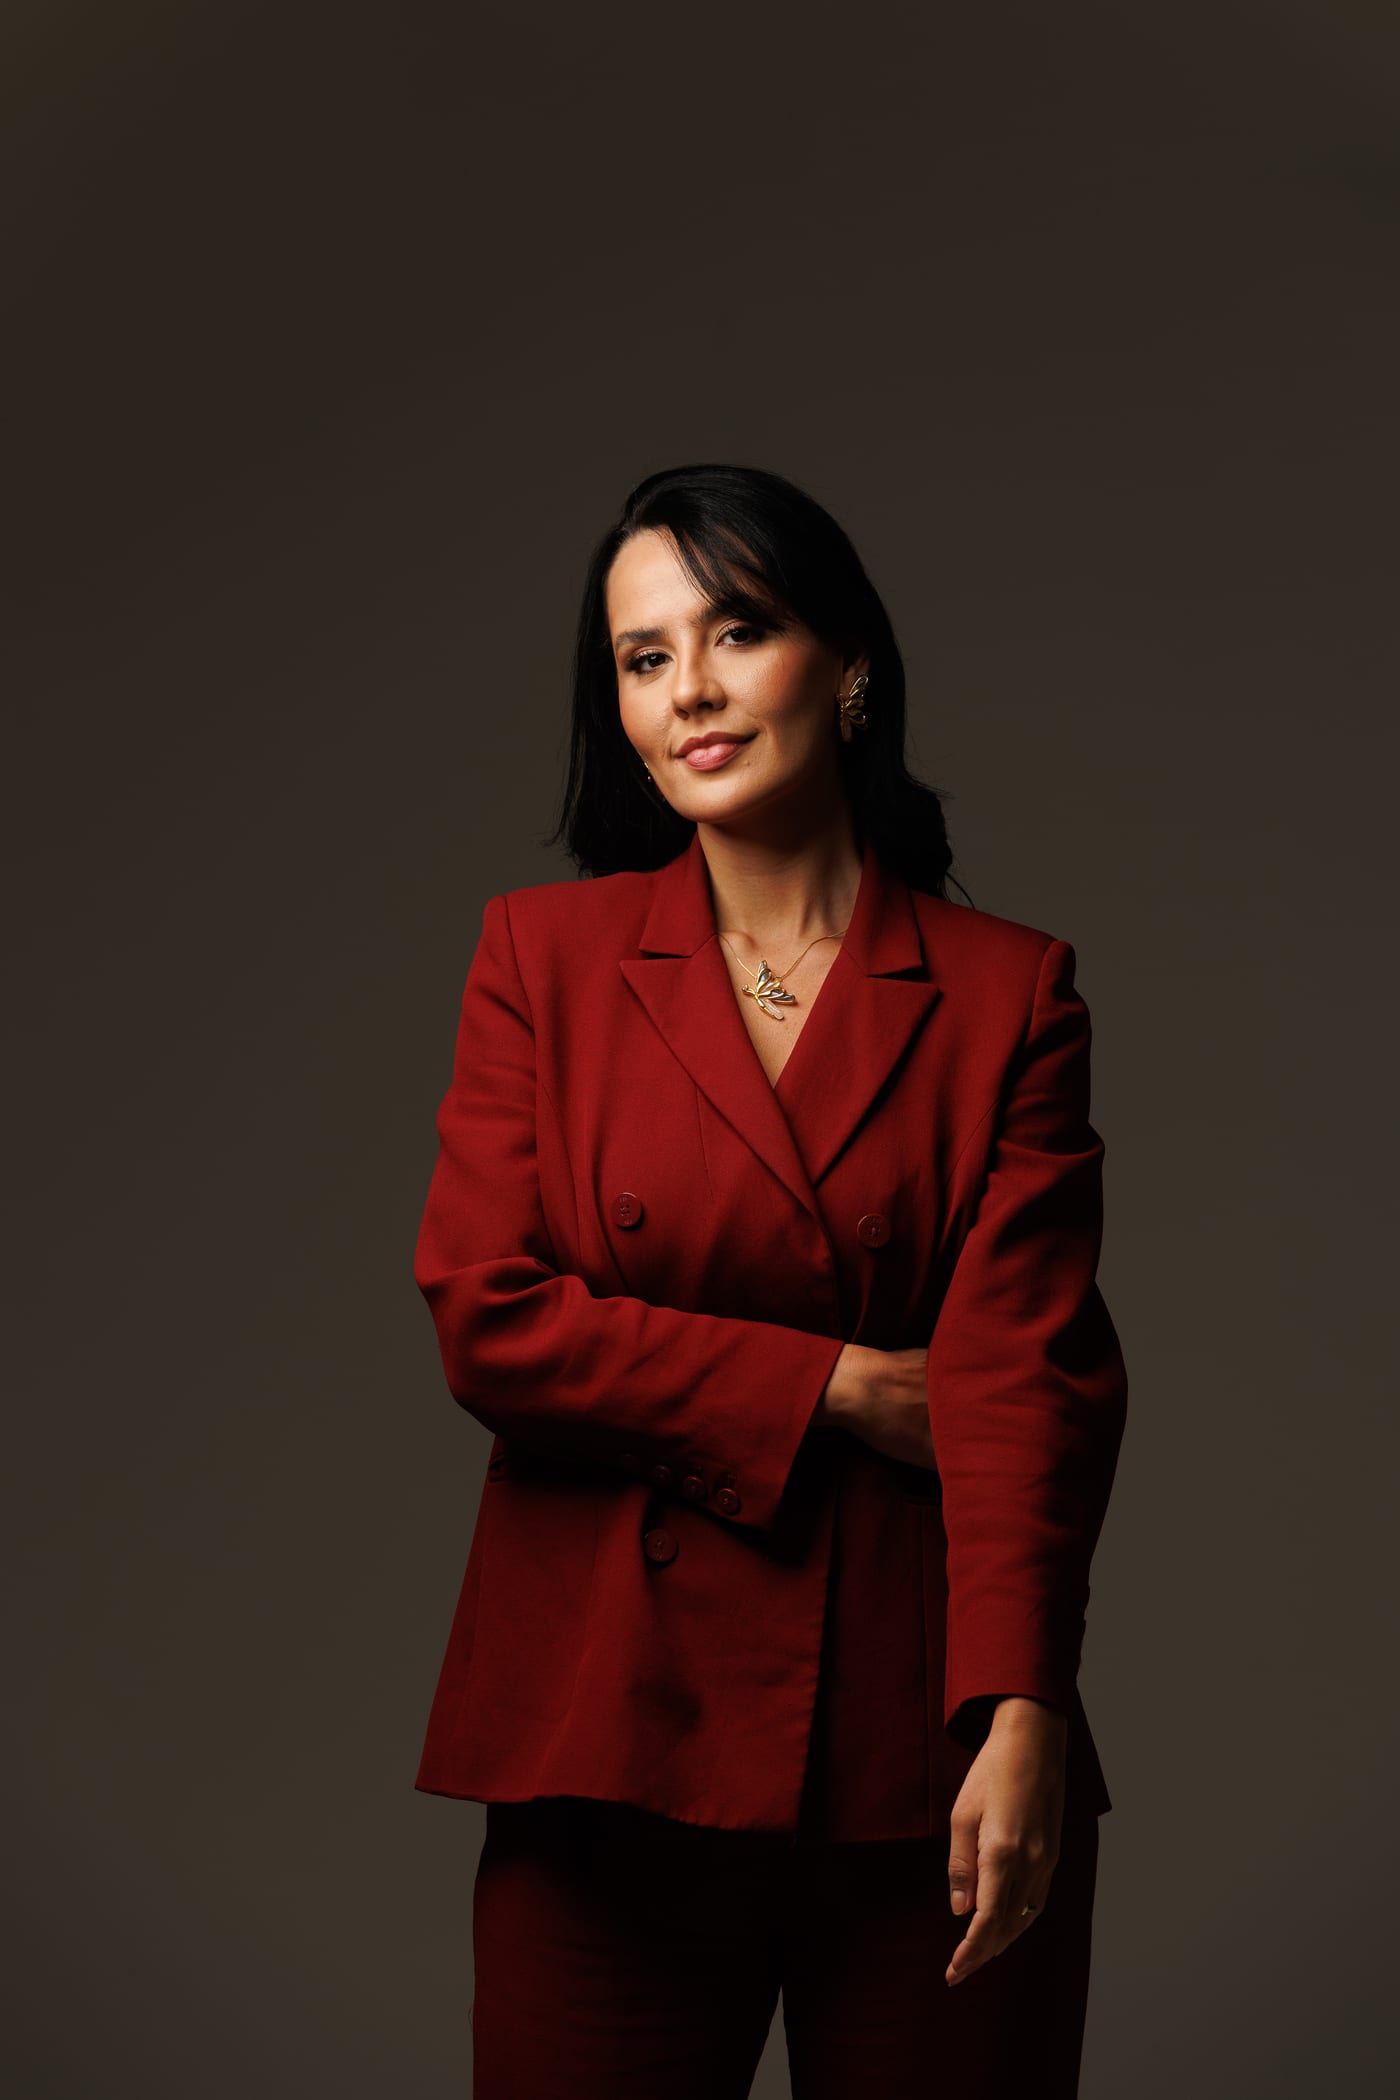
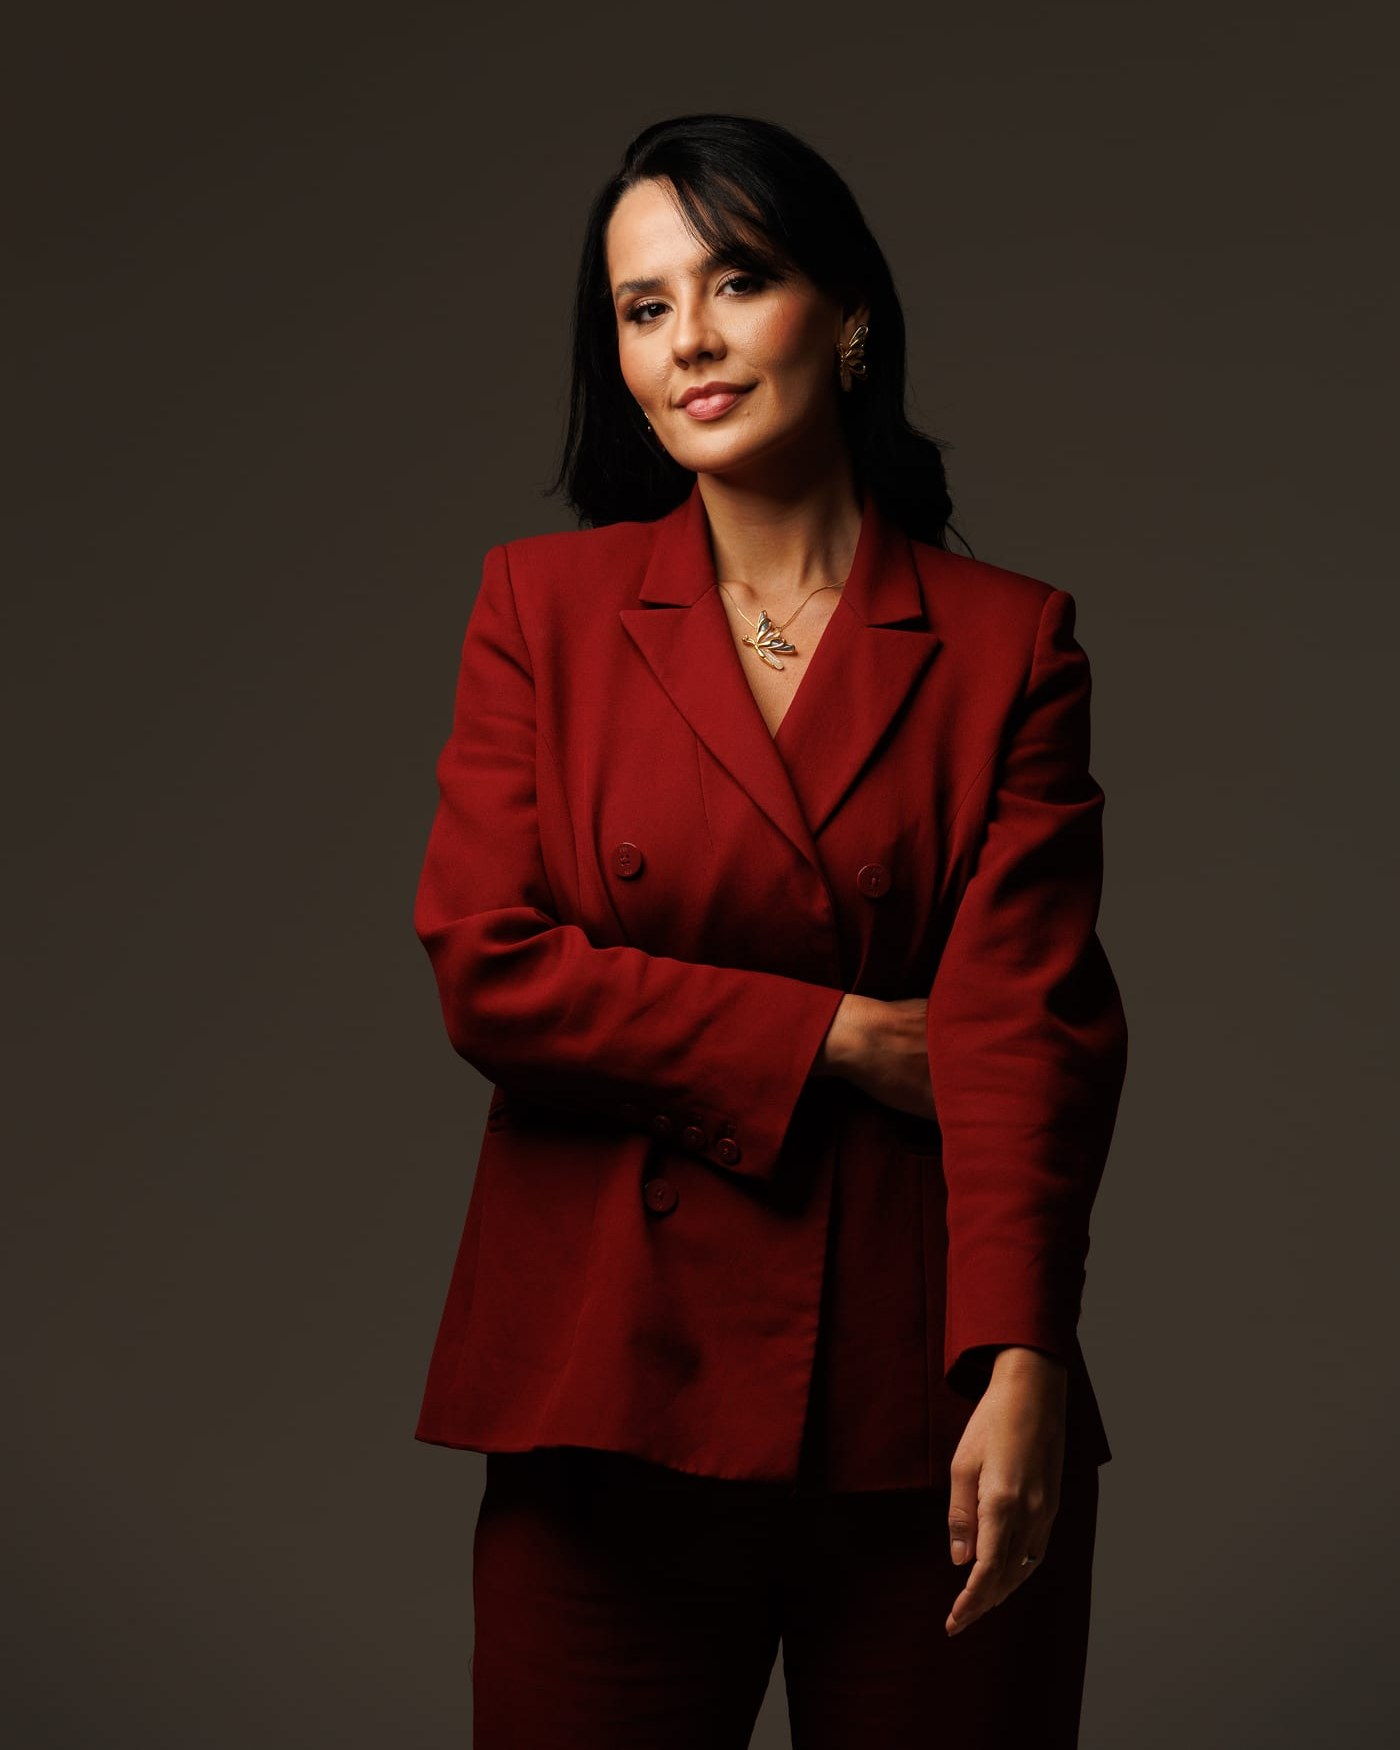
Ajustes na LP: título, fonte, destaques, foto e storytelling
- Título do hero mais forte citando dissecção: "O que a dissecção
  revela, o atlas nunca vai te mostrar." + subhead sem repetir "atlas"
- Tipografia com mais impacto: Fraunces (títulos) e Inter (corpo) no
  lugar de Cormorant Garamond e Poppins; títulos em semibold
- Destaque <Mark> agora é texto branco + sublinhado no marsala do
  botão (#7e1e1c), no lugar do vermelho-claro itálico
- Foto do hero re-enquadrada (corte do fundo vazio no topo, 4:5)
- Autoridade: storytelling ancorado na virada de 2018 (primeiro curso
  de dissecção → segurança → destravou a carreira)

Claude-Session: https://claude.ai/code/session_01HG79nxpBkDxeS7sYy6weNw

Changed region(s): [[0.2764, 0.0617, 0.8293, 0.9566], [0.6143, 0.8331, 0.645, 0.864]]

diff --git a/components/sections/Authority.tsx b/components/sections/Authority.tsx
@@ -32,14 +32,17 @@ export function Authority() {
             <span className="text-[12px] font-semibold tracking-[0.24em] text-wine-ink uppercase">
               Quem conduz
             </span>
-            <h2 className="mt-3.5 mb-4 font-serif font-medium text-[2.1rem] text-fg">Dra. Aline Filgueiras</h2>
+            <h2 className="mt-3.5 mb-4 font-serif font-semibold text-[2.1rem] text-fg">Dra. Aline Filgueiras</h2>
             <p className="max-w-[520px] text-fg-soft">
               Antes de ensinar, a Aline sentiu a mesma insegurança que você sente: aplicar
-              sem enxergar o que está embaixo da pele. Foi atrás disso a fundo. Fez uma
-              temporada de dissecção nos Estados Unidos e hoje dá cursos internacionais de
-              anatomia na Europa. São onze anos resolvendo os casos mais complexos da
-              estética, a Filgueiras Academy que ela fundou e a pós em Estética Avançada e
-              Integrativa, com selo MEC. Atende em Belo Horizonte e Praia Grande.
+              sem enxergar o que está embaixo da pele. A virada veio em 2018, no primeiro
+              curso de dissecção: ao ver a face por dentro, na profundidade real, ela ganhou
+              uma segurança que nenhum atlas tinha dado — e foi isso que destravou a carreira
+              dela. Foi atrás de mais: uma temporada de dissecção nos Estados Unidos e, hoje,
+              cursos internacionais de anatomia na Europa. São onze anos resolvendo os casos
+              mais complexos da estética, a Filgueiras Academy que ela fundou e a pós em
+              Estética Avançada e Integrativa, com selo MEC. Atende em Belo Horizonte e Praia
+              Grande.
             </p>
 
             <div className="mt-7 grid grid-cols-2 gap-px overflow-hidden rounded-[4px] border border-line bg-line">

diff --git a/app/layout.tsx b/app/layout.tsx
@@ -1,21 +1,21 @@
 import type { Metadata } from "next";
-import { Cormorant_Garamond, Poppins } from "next/font/google";
+import { Fraunces, Inter } from "next/font/google";
 import "./globals.css";
 import { MetaPixel } from "@/components/MetaPixel";
 import { GoogleAnalytics } from "@/components/GoogleAnalytics";
 import { TictoEcho } from "@/components/TictoEcho";
 import { ConsentNotice } from "@/components/ConsentNotice";
 
-const cormorant = Cormorant_Garamond({
-  variable: "--font-cormorant",
+const fraunces = Fraunces({
+  variable: "--font-fraunces",
   subsets: ["latin"],
-  weight: ["400", "500", "600"],
+  weight: ["400", "500", "600", "700"],
   style: ["normal", "italic"],
   display: "swap",
 });
 
-const poppins = Poppins({
-  variable: "--font-poppins",
+const inter = Inter({
+  variable: "--font-inter",
   subsets: ["latin"],
   weight: ["400", "500", "600"],
   display: "swap",
@@ -39,7 +39,7 @@ export default function RootLayout({ children }: LayoutProps<"/">) {
   return (
     <html
       lang="pt-BR"
-      className={`${cormorant.variable} ${poppins.variable}`}
+      className={`${fraunces.variable} ${inter.variable}`}
       style={{ colorScheme: "dark" }}
     >
       <body className="min-h-screen bg-bg font-sans text-fg antialiased">

diff --git a/components/sections/Hero.tsx b/components/sections/Hero.tsx
@@ -19,14 +19,14 @@ export function Hero() {
               </span>
             </div>
 
-            <h1 className="mt-5 text-balance font-serif font-medium text-[2.35rem] leading-[1.12] tracking-[-0.012em] text-fg sm:text-[3.1rem] lg:text-[3.7rem]">
-              A anatomia que te dá <Mark>segurança</Mark> na hora de aplicar.
+            <h1 className="mt-5 text-balance font-serif font-semibold text-[2.35rem] leading-[1.12] tracking-[-0.012em] text-fg sm:text-[3.1rem] lg:text-[3.7rem]">
+              O que a <Mark>dissecção</Mark> revela, o atlas nunca vai te mostrar.
             </h1>
 
             <p className="mt-6 max-w-[560px] text-[1.2rem] leading-[1.6] text-fg-soft">
-              No dia 24, ao vivo, a Dra. Aline mostra o que o atlas e o curso gravado não
-              mostram: a face por dentro, direto da mesa de dissecção. Você aplica com a
-              firmeza de quem já viu onde estão os riscos.
+              No dia 24, ao vivo, a Dra. Aline leva você para dentro da face — direto da
+              mesa de dissecção. Você passa a aplicar com a firmeza de quem já viu, na
+              profundidade real, onde estão os riscos.
             </p>
 
             <Countdown className="mt-8 mb-8" />

diff --git a/components/Mark.tsx b/components/Mark.tsx
@@ -1,5 +1,10 @@
-// Destaque de trechos de título: marsala + itálico. Herda a serifa (Cormorant)
-// do título, então fica um itálico editorial e elegante, sem ar de marca-texto.
+// Destaque de trechos de título: texto normal + sublinhado no marsala do botão
+// (--wine / #7e1e1c). Traço um pouco mais grosso e afastado para não sumir no
+// fundo escuro — substitui o antigo destaque em vermelho-claro itálico.
 export function Mark({ children }: { children: React.ReactNode }) {
-  return <em className="text-wine-ink italic">{children}</em>;
+  return (
+    <em className="text-fg not-italic underline decoration-wine decoration-2 underline-offset-[6px]">
+      {children}
+    </em>
+  );
 }

diff --git a/components/sections/Solution.tsx b/components/sections/Solution.tsx
@@ -35,7 +35,7 @@ export function Solution() {
               <span className="text-[12px] font-semibold tracking-[0.24em] text-wine-ink uppercase">
                 Por dentro da face
               </span>
-              <h2 className="mt-[18px] text-balance font-serif font-medium text-[1.95rem] leading-[1.12] text-fg sm:text-[2.6rem]">
+              <h2 className="mt-[18px] text-balance font-serif font-semibold text-[1.95rem] leading-[1.12] text-fg sm:text-[2.6rem]">
                 Fui até a mesa de dissecção pra te mostrar{" "}
                 <Mark>o que a pele esconde</Mark>.
               </h2>

diff --git a/components/sections/Problem.tsx b/components/sections/Problem.tsx
@@ -16,7 +16,7 @@ export function Problem() {
           <span className="text-[12px] font-semibold tracking-[0.24em] text-wine-ink uppercase">
             O ponto cego
           </span>
-          <h2 className="mt-[18px] text-balance font-serif font-medium text-[1.95rem] leading-[1.12] text-fg sm:text-[2.6rem]">
+          <h2 className="mt-[18px] text-balance font-serif font-semibold text-[1.95rem] leading-[1.12] text-fg sm:text-[2.6rem]">
             Você estudou em atlas, slide e boneco. O rosto na sua cadeira{" "}
             <Mark>não é nenhum dos três</Mark>.
           </h2>

diff --git a/components/sections/Offer.tsx b/components/sections/Offer.tsx
@@ -28,7 +28,7 @@ export function Offer() {
           <span className="text-[12px] font-semibold tracking-[0.24em] text-wine-ink uppercase">
             Seu ingresso
           </span>
-          <h2 className="mt-[18px] font-serif font-medium text-[1.95rem] text-fg sm:text-[2.6rem]">
+          <h2 className="mt-[18px] font-serif font-semibold text-[1.95rem] text-fg sm:text-[2.6rem]">
             É uma noite ao vivo, e <Mark>não vai ter repeteco</Mark>.
           </h2>
           <p className="mt-[18px] max-w-[560px] text-[1.12rem] leading-[1.55] text-fg-soft">

diff --git a/components/sections/FinalCta.tsx b/components/sections/FinalCta.tsx
@@ -27,7 +27,7 @@ export function FinalCta() {
         <span className="text-[12px] font-semibold tracking-[0.24em] text-wine-ink uppercase">
           24 de setembro · 20h
         </span>
-        <h2 className="mt-[18px] mb-6 max-w-[560px] text-balance font-serif font-medium text-[1.95rem] text-fg sm:text-[2.6rem]">
+        <h2 className="mt-[18px] mb-6 max-w-[560px] text-balance font-serif font-semibold text-[1.95rem] text-fg sm:text-[2.6rem]">
           Nesse dia, a mesa de dissecção <Mark>vira a sua tela</Mark>.
         </h2>
 

diff --git a/components/sections/SocialProof.tsx b/components/sections/SocialProof.tsx
@@ -72,7 +72,7 @@ export function SocialProof() {
           <span className="text-[12px] font-semibold tracking-[0.24em] text-wine-ink uppercase">
             Quem já estuda com a Aline
           </span>
-          <h2 className="mt-[18px] font-serif font-medium text-[1.95rem] text-fg sm:text-[2.6rem]">
+          <h2 className="mt-[18px] font-serif font-semibold text-[1.95rem] text-fg sm:text-[2.6rem]">
             O que elas dizem depois de sentar nessa sala.
           </h2>
         </Reveal>

diff --git a/components/sections/Faq.tsx b/components/sections/Faq.tsx
@@ -46,7 +46,7 @@ export function Faq() {
           <span className="text-[12px] font-semibold tracking-[0.24em] text-wine-ink uppercase">
             Dúvidas
           </span>
-          <h2 className="mt-[18px] font-serif font-medium text-[1.95rem] text-fg sm:text-[2.6rem]">
+          <h2 className="mt-[18px] font-serif font-semibold text-[1.95rem] text-fg sm:text-[2.6rem]">
             Perguntas honestas.
           </h2>
         </Reveal>

diff --git a/app/globals.css b/app/globals.css
@@ -44,8 +44,8 @@
   --color-on-wine: var(--on-wine);
   --color-line: var(--line);
   --color-line-soft: var(--line-soft);
-  --font-serif: var(--font-cormorant);
-  --font-sans: var(--font-poppins);
+  --font-serif: var(--font-fraunces);
+  --font-sans: var(--font-inter);
 }
 
 html {
